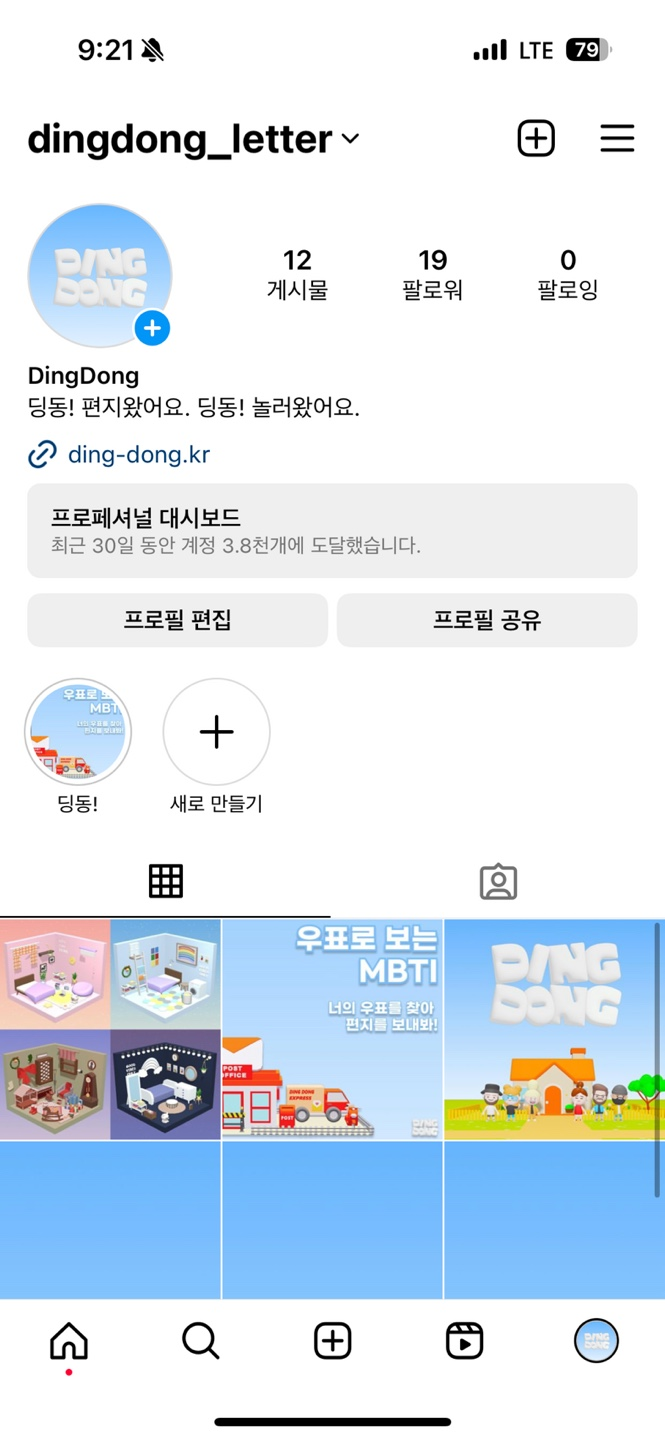
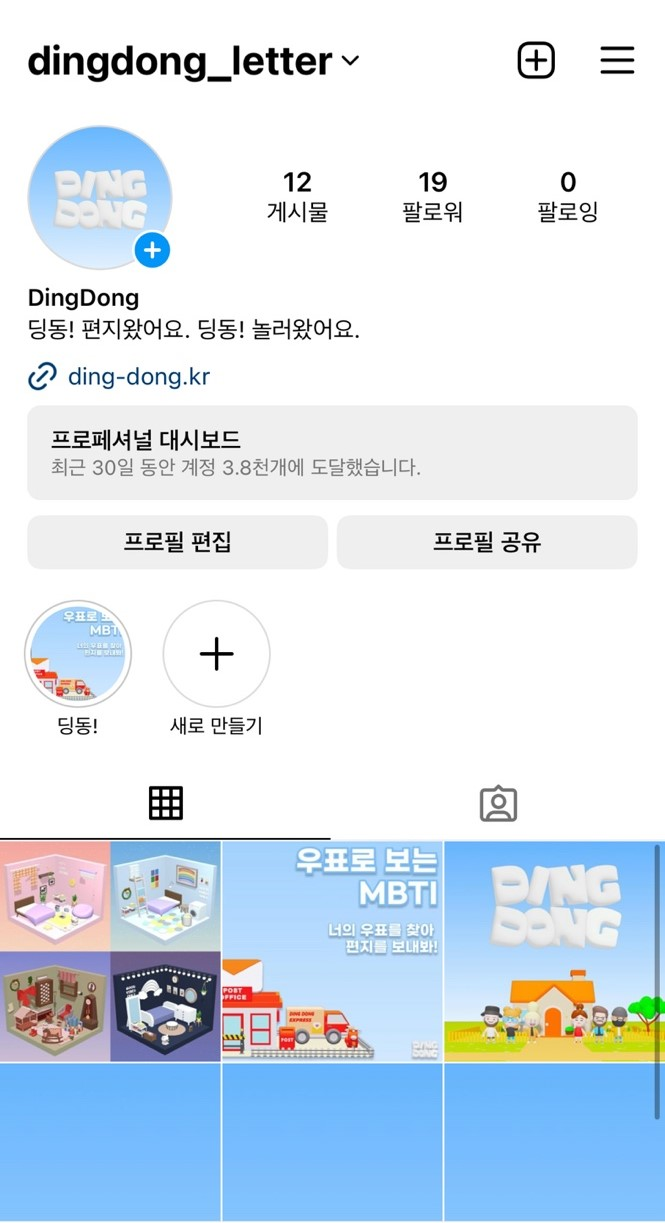
DOCS: 이미지 수정

diff --git a/README.md b/README.md
@@ -121,6 +121,8 @@
 ### 우표 유형 테스트
 
 ### 공식 SNS 운영
+<img src="etc/assets/dingdong_instagram.jpg" width="300px"/><br/>
+<img src="etc/assets/dingdong_x.jpg" width="300px"/><br/>
 <br />
 
 
